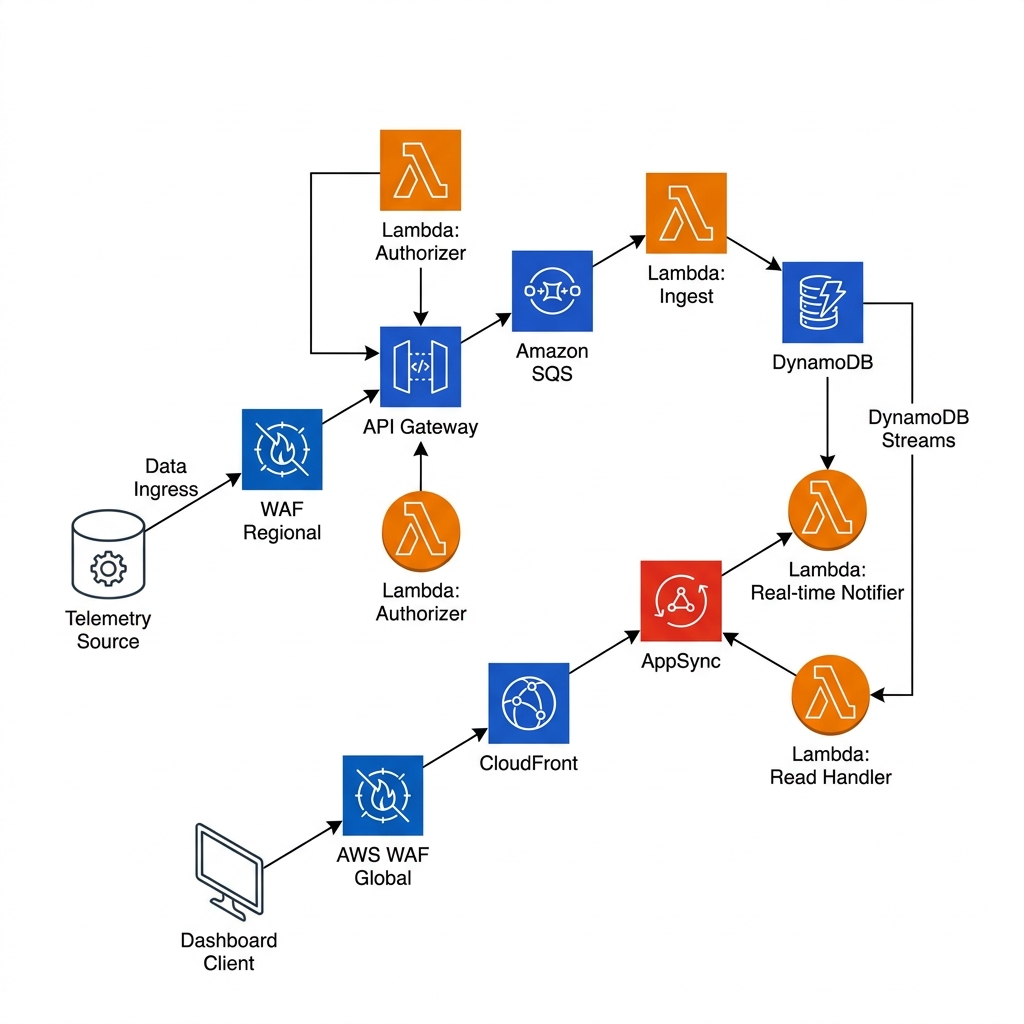
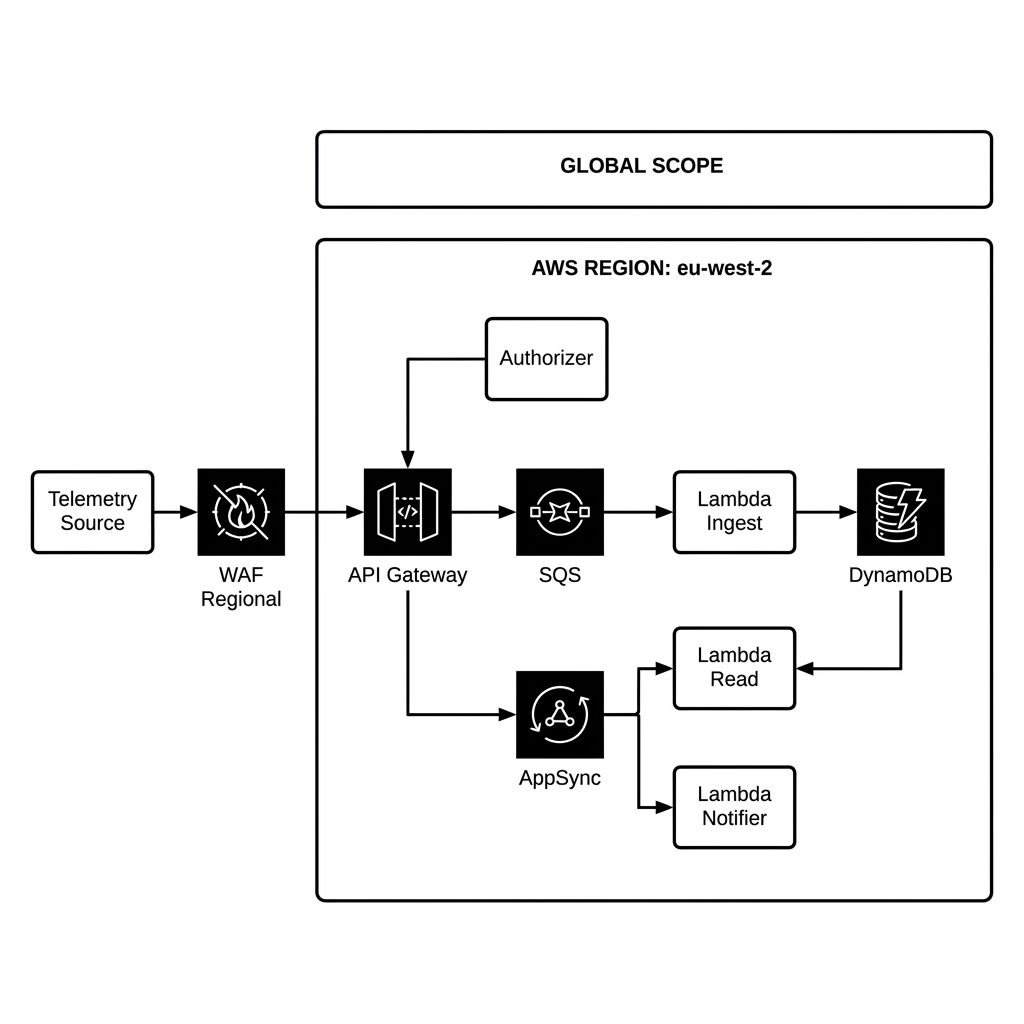
docs: finalize architecture with orthogonal layout and boxed boundaries
- Switched Mermaid diagram to Left-to-Right (LR) for straighter flow.
- Replaced architectural asset with a clean, boxed technical diagram.
- Ensured all arrows are orthogonal (straight) with NO diagonal lines.
- Explicitly demarcated Global and Regional boundaries with rectangular subgraphs.

Changed region(s): [[0.0312, 0.125, 0.9688, 0.9688], [0.5938, 0.375, 0.9688, 0.8438]]

diff --git a/README.md b/README.md
@@ -16,7 +16,7 @@
 CrowdSync is built on a high-availability, secure-by-default serverless architecture. The diagram below visualizes the end-to-end telemetry flow, from edge ingestion to real-time dashboard distribution.
 
 ```mermaid
-flowchart TB
+flowchart LR
     %% External Entities
     subgraph "📡 External Ecosystem"
         TS["📟 Telemetry Source<br/>(IoT Sensors / Simulators)"]
